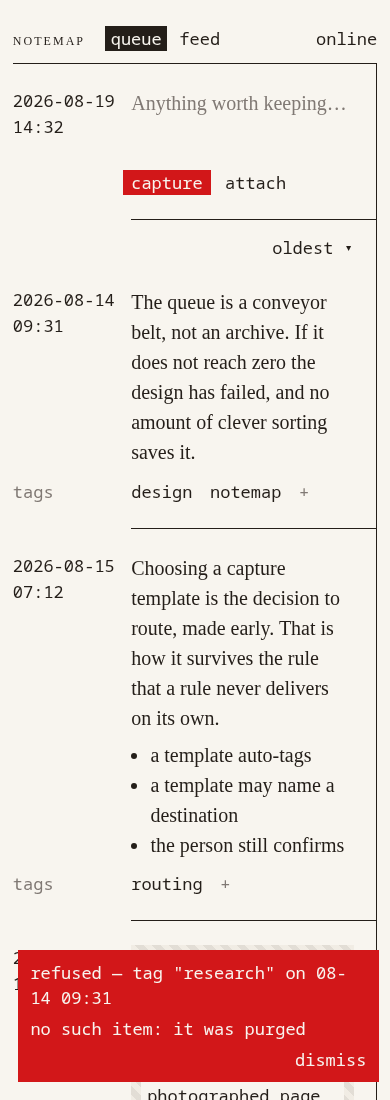
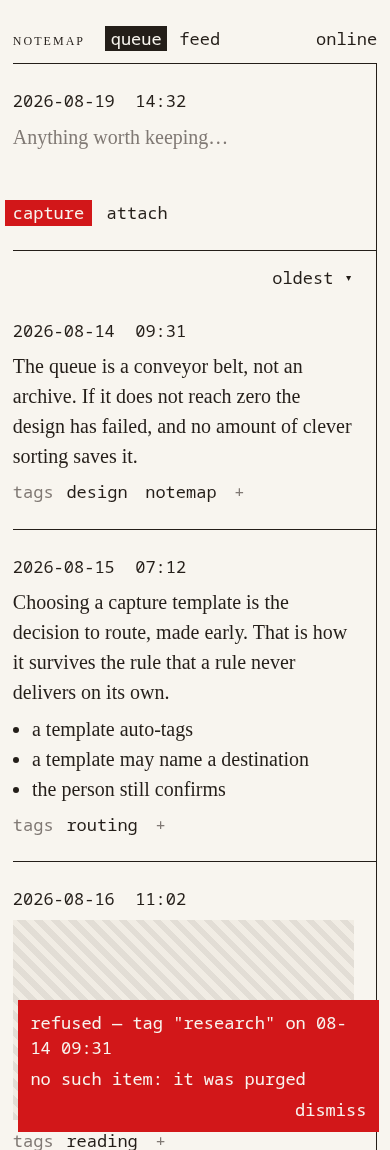
docs(design): one column on small screens, and a self-contained plan
A timestamp column costs a quarter of a 390px screen and left the prose at
about 28 characters. Below 34rem the row is now a single column: the stamp is a
header line carrying date, time and the state word, a label shrinks to its own
width and sits inline before its value, and unlabelled content takes the full
measure.

The port plan now carries the system in words — surfaces, frame, register, row,
both breakpoints, tokens, the four colour idioms and the primitive inventory —
plus how to use docs/design/ and its shots. An agent implementing it needs
nothing that is not in this repository.

diff --git a/docs/design/queue.html b/docs/design/queue.html
@@ -21,14 +21,14 @@
         <div class="stage">
           <div class="left">
             <div class="row">
-              <div class="a">
+              <div class="a head">
                 <span class="stamp">2026-08-19</span>
                 <span class="stamp">14:32</span>
               </div>
-              <div class="b compose">Anything worth keeping&hellip;</div>
+              <div class="b compose wide">Anything worth keeping&hellip;</div>
 
               <div class="a lbl"></div>
-              <div class="b acts">
+              <div class="b acts wide">
                 <span class="go">capture</span>
                 <span>attach</span>
               </div>
@@ -39,11 +39,11 @@
             <div class="strip"><span class="selector">oldest &#9662;</span></div>
 
             <div class="row">
-              <div class="a">
+              <div class="a head">
                 <span class="stamp">2026-08-14</span>
                 <span class="stamp">09:31</span>
               </div>
-              <div class="b prose">
+              <div class="b prose wide">
                 <p>
                   The queue is a conveyor belt, not an archive. If it does not reach zero the
                   design has failed, and no amount of clever sorting saves it.
@@ -58,11 +58,11 @@
             <hr class="sep" />
 
             <div class="row">
-              <div class="a">
+              <div class="a head">
                 <span class="stamp">2026-08-15</span>
                 <span class="stamp">07:12</span>
               </div>
-              <div class="b prose">
+              <div class="b prose wide">
                 <p>
                   Choosing a capture template is the decision to route, made early. That is how it
                   survives the rule that a rule never delivers on its own.
@@ -80,11 +80,11 @@
             <hr class="sep" />
 
             <div class="row">
-              <div class="a">
+              <div class="a head">
                 <span class="stamp">2026-08-16</span>
                 <span class="stamp">11:02</span>
               </div>
-              <div class="b">
+              <div class="b wide">
                 <div class="shot"><span>photographed page &mdash; 2 of 2</span></div>
               </div>
               <div class="a lbl">tags</div>
@@ -96,11 +96,11 @@
             <div class="row">
               <span class="link">&#8594;</span>
 
-              <div class="a">
+              <div class="a head">
                 <span class="stamp">2026-08-18</span>
                 <span class="stamp">16:20</span>
               </div>
-              <div class="b prose">
+              <div class="b prose wide">
                 <p>
                   Ask whether the mirror should carry the routing record or only the fact that
                   something left. ADR 19 says the delivery records what went, so the bytes that
@@ -120,7 +120,7 @@
               <div class="b value empty">none yet</div>
 
               <div class="a lbl"></div>
-              <div class="b acts">
+              <div class="b acts wide">
                 <span class="go">route</span>
                 <span>mark done</span>
                 <span>archive</span>

diff --git a/docs/design/feed.html b/docs/design/feed.html
@@ -23,11 +23,11 @@
             <div class="strip"><span class="selector">newest &#9662;</span></div>
 
             <div class="row">
-              <div class="a">
+              <div class="a head">
                 <span class="stamp">2026-08-19</span>
                 <span class="stamp">09:02</span>
               </div>
-              <div class="b prose">
+              <div class="b prose wide">
                 <p>
                   A separator that starts at the content column and runs to the spine makes one
                   junction per capture. The register reads as a register rather than as a stack of
@@ -41,12 +41,12 @@
             <hr class="sep" />
 
             <div class="row done">
-              <div class="a">
+              <div class="a head">
                 <span class="stamp">2026-08-18</span>
                 <span class="stamp">16:20</span>
                 <span class="mode">routed</span>
               </div>
-              <div class="b prose">
+              <div class="b prose wide">
                 <p>
                   Ask whether the mirror should carry the routing record or only the fact that
                   something left. ADR 19 says the delivery records what went, so the bytes that
@@ -64,11 +64,11 @@
             <hr class="sep" />
 
             <div class="row">
-              <div class="a">
+              <div class="a head">
                 <span class="stamp">2026-08-17</span>
                 <span class="stamp">08:47</span>
               </div>
-              <div class="b">
+              <div class="b wide">
                 <div class="prose clamp">
                   <p>
                     Every reference in the folder is an index rather than a list of cards. A fixed
@@ -100,12 +100,12 @@
             <hr class="sep" />
 
             <div class="row done">
-              <div class="a">
+              <div class="a head">
                 <span class="stamp">2026-08-17</span>
                 <span class="stamp">07:15</span>
                 <span class="mode">archived</span>
               </div>
-              <div class="b prose">
+              <div class="b prose wide">
                 <p>
                   Buy cable for the drive. Wrong app, but it was quicker to capture it than to open
                   the right one.
@@ -114,18 +114,18 @@
               <div class="a lbl">tags</div>
               <div class="b set"><span class="add">+</span></div>
               <div class="a lbl"></div>
-              <div class="b acts"><span>unarchive</span></div>
+              <div class="b acts wide"><span>unarchive</span></div>
             </div>
 
             <hr class="sep" />
 
             <div class="row done">
-              <div class="a">
+              <div class="a head">
                 <span class="stamp">2026-08-16</span>
                 <span class="stamp">11:02</span>
                 <span class="mode">routed</span>
               </div>
-              <div class="b">
+              <div class="b wide">
                 <div class="shot"><span>photographed page &mdash; 2 of 2</span></div>
               </div>
               <div class="a lbl">tags</div>

diff --git a/docs/design/shell.css b/docs/design/shell.css
@@ -244,7 +244,19 @@ a:hover { color: var(--red); }
   .link { display: none; }
 }
 
+/* Small screens: one column. The stamp becomes a header line across the row and
+   a field's label shrinks to its own width, so the content keeps the measure. */
 @media (max-width: 34rem) {
-  :root { --gutter: 6.6rem; --gap: 0.8rem; }
+  :root { --gap: 0.8rem; }
   .sheet { padding-left: 0.8rem; padding-right: 0.8rem; }
+  .row { grid-template-columns: max-content 1fr; row-gap: 0.5rem; }
+  .row .a.head,
+  .row .b.wide { grid-column: 1 / -1; }
+  .row .a.lbl:empty { display: none; }
+  .stamp { display: inline; }
+  .stamp + .stamp { margin-left: 1ch; }
+  .mode { display: inline-block; margin: 0 0 0 1ch; }
+  .sep { margin-left: 0; }
+  .foot { grid-template-columns: 1fr; }
+  .strip { padding-right: 0; }
 }

diff --git a/docs/plans/shell-design-port.md b/docs/plans/shell-design-port.md
@@ -17,6 +17,62 @@ class string describing the same thing appears in two places.
 
 ---
 
+## The system, in one place
+
+Everything below is visible in `docs/design/` — that directory is the reference and needs no
+build, no network and no account. Read it before phase 1. `docs/specs/shell.md` says *why*; this
+says *what*, so that nothing has to be inferred from a screenshot.
+
+**How to use the reference.** Open `docs/design/queue.html` and `feed.html` directly over `file://`.
+Compare your own output against `docs/design/shots/` by running the same headless command against
+`pnpm dev` — the command is in `docs/design/README.md`. Check 1440 and 390 both; the layout changes
+at two breakpoints and only one of them is visible on a desktop. The mockups are static HTML with
+no state and no data: copy the *system*, never a class name.
+
+**Surfaces.** Two. The queue is the root route and carries capture as its first row. The feed is
+everything the pool holds. Settings exists but is not in the navigation (see unknowns).
+
+**Frame.** Sheet → column → bar, then the stage. The column is capped at a reading measure; the
+only thing that widens it is a composer opening beside the register. The bar is one row: wordmark,
+the two surface links, and reachability pushed to the right.
+
+**The register.** A grid of two columns — a fixed left column and the content — with the spine, a
+one-pixel ink rule, down its right edge. A separator between captures starts where the content
+column starts and runs right *past* the register's padding to meet the spine, making one junction
+per capture. Nothing is boxed; nothing has a border on four sides.
+
+**The row.** Left column: the date over the time, then the state word in the feed. Right column:
+the payload, then a label/value pair per field — `tags`, `edited`, `routing`, `sent` — and the
+action row last. The left column is the label column; that is the whole idea.
+
+**Two breakpoints.**
+- **56rem** — the composer stops sitting beside the row and becomes a block inside it, below the
+  note. Nothing hides the register.
+- **34rem** — the row becomes a single column. The stamp is a header line across the full width
+  with the state word beside it, a label shrinks to its own width and sits inline before its
+  value, unlabelled content spans the whole measure, and separators run edge to edge.
+
+**Tokens.** Four colours — paper, ink, muted ink, accent. Two faces — the browser's `serif` for
+prose and `monospace` for everything the interface says; the wordmark is the serif in small caps.
+Two sizes — one for every monospace element, one step larger for prose, and nothing else. Four
+measures — the row's gutter and gap, the spine's padding, the composer panel's width.
+
+**Four idioms, and no others.**
+- **Inversion** (ink fill, paper text) means *current or chosen*: the nav's surface, a chosen
+  destination or capability, a feed row's state word.
+- **Accent fill** means *the action*: `capture`, `route`. One per context.
+- **Accent** alone means *attend to this*: the refusal block, the connector arrow marking a
+  routing in play, a link under the cursor.
+- **Muted ink** means *placeholder, unavailable, or finished*: an empty value, an unavailable
+  destination, the prose of a routed or archived row.
+
+**The primitives to build**, which is the inventory phase 2 is asking for: sheet, column, bar, nav,
+reachability; register, row, label cell, value cell, content cell, separator; stamp, state word;
+prose, clamp and its cue, figure; action, primary action, action row, tag, tag set, order selector,
+load-more foot; composer with its group, option, tree and commit; the refusal block.
+
+---
+
 ## Tasks
 
 ### 1 — Tokens and faces

diff --git a/docs/specs/shell.md b/docs/specs/shell.md
@@ -212,6 +212,12 @@ alignment on a warm ground rather than a cold grey one.
 share: a fixed column of times, a wide column of content, and a margin carrying marks. The row
 reads as a dated entry in a ledger, which is why the capture time is its title.
 
+**Below 34rem the row is a single column.** A timestamp column costs a quarter of a phone screen
+and leaves the prose too narrow to read. So the stamp becomes a header line across the row — date,
+time, and the state word beside them — a field's label shrinks to its own width and sits inline
+before its value, and anything unlabelled takes the full measure. The columns still say what a
+thing is; they stop reserving space to do it.
+
 **Two columns do the work that type hierarchy usually does.** A fixed left column names what a
 thing is; a wide right column holds it. Collapsed, the left column carries the date over the time.
 Opened, that same column becomes the field-name column — `tags`, `edited`, `routing`. One system,

diff --git a/docs/design/README.md b/docs/design/README.md
@@ -10,7 +10,7 @@ plan](../plans/shell-design-port.md) is written against; the prose account of
 | `shell.css` | Every token and every component style. What becomes `@theme` plus the primitives. |
 | `queue.html` | The queue, with capture as its first row and a routing composer open beside one item. |
 | `feed.html` | The feed, including a routed item, an archived one, and a clamped long note. |
-| `shots/` | Rendered at 1440 and at 390, so a change can be compared without opening a browser. |
+| `shots/` | Both surfaces rendered at 1440 and at 390, so a change can be compared without opening a browser. |
 
 Open either page directly — `file://` works, there is nothing to serve.
 
